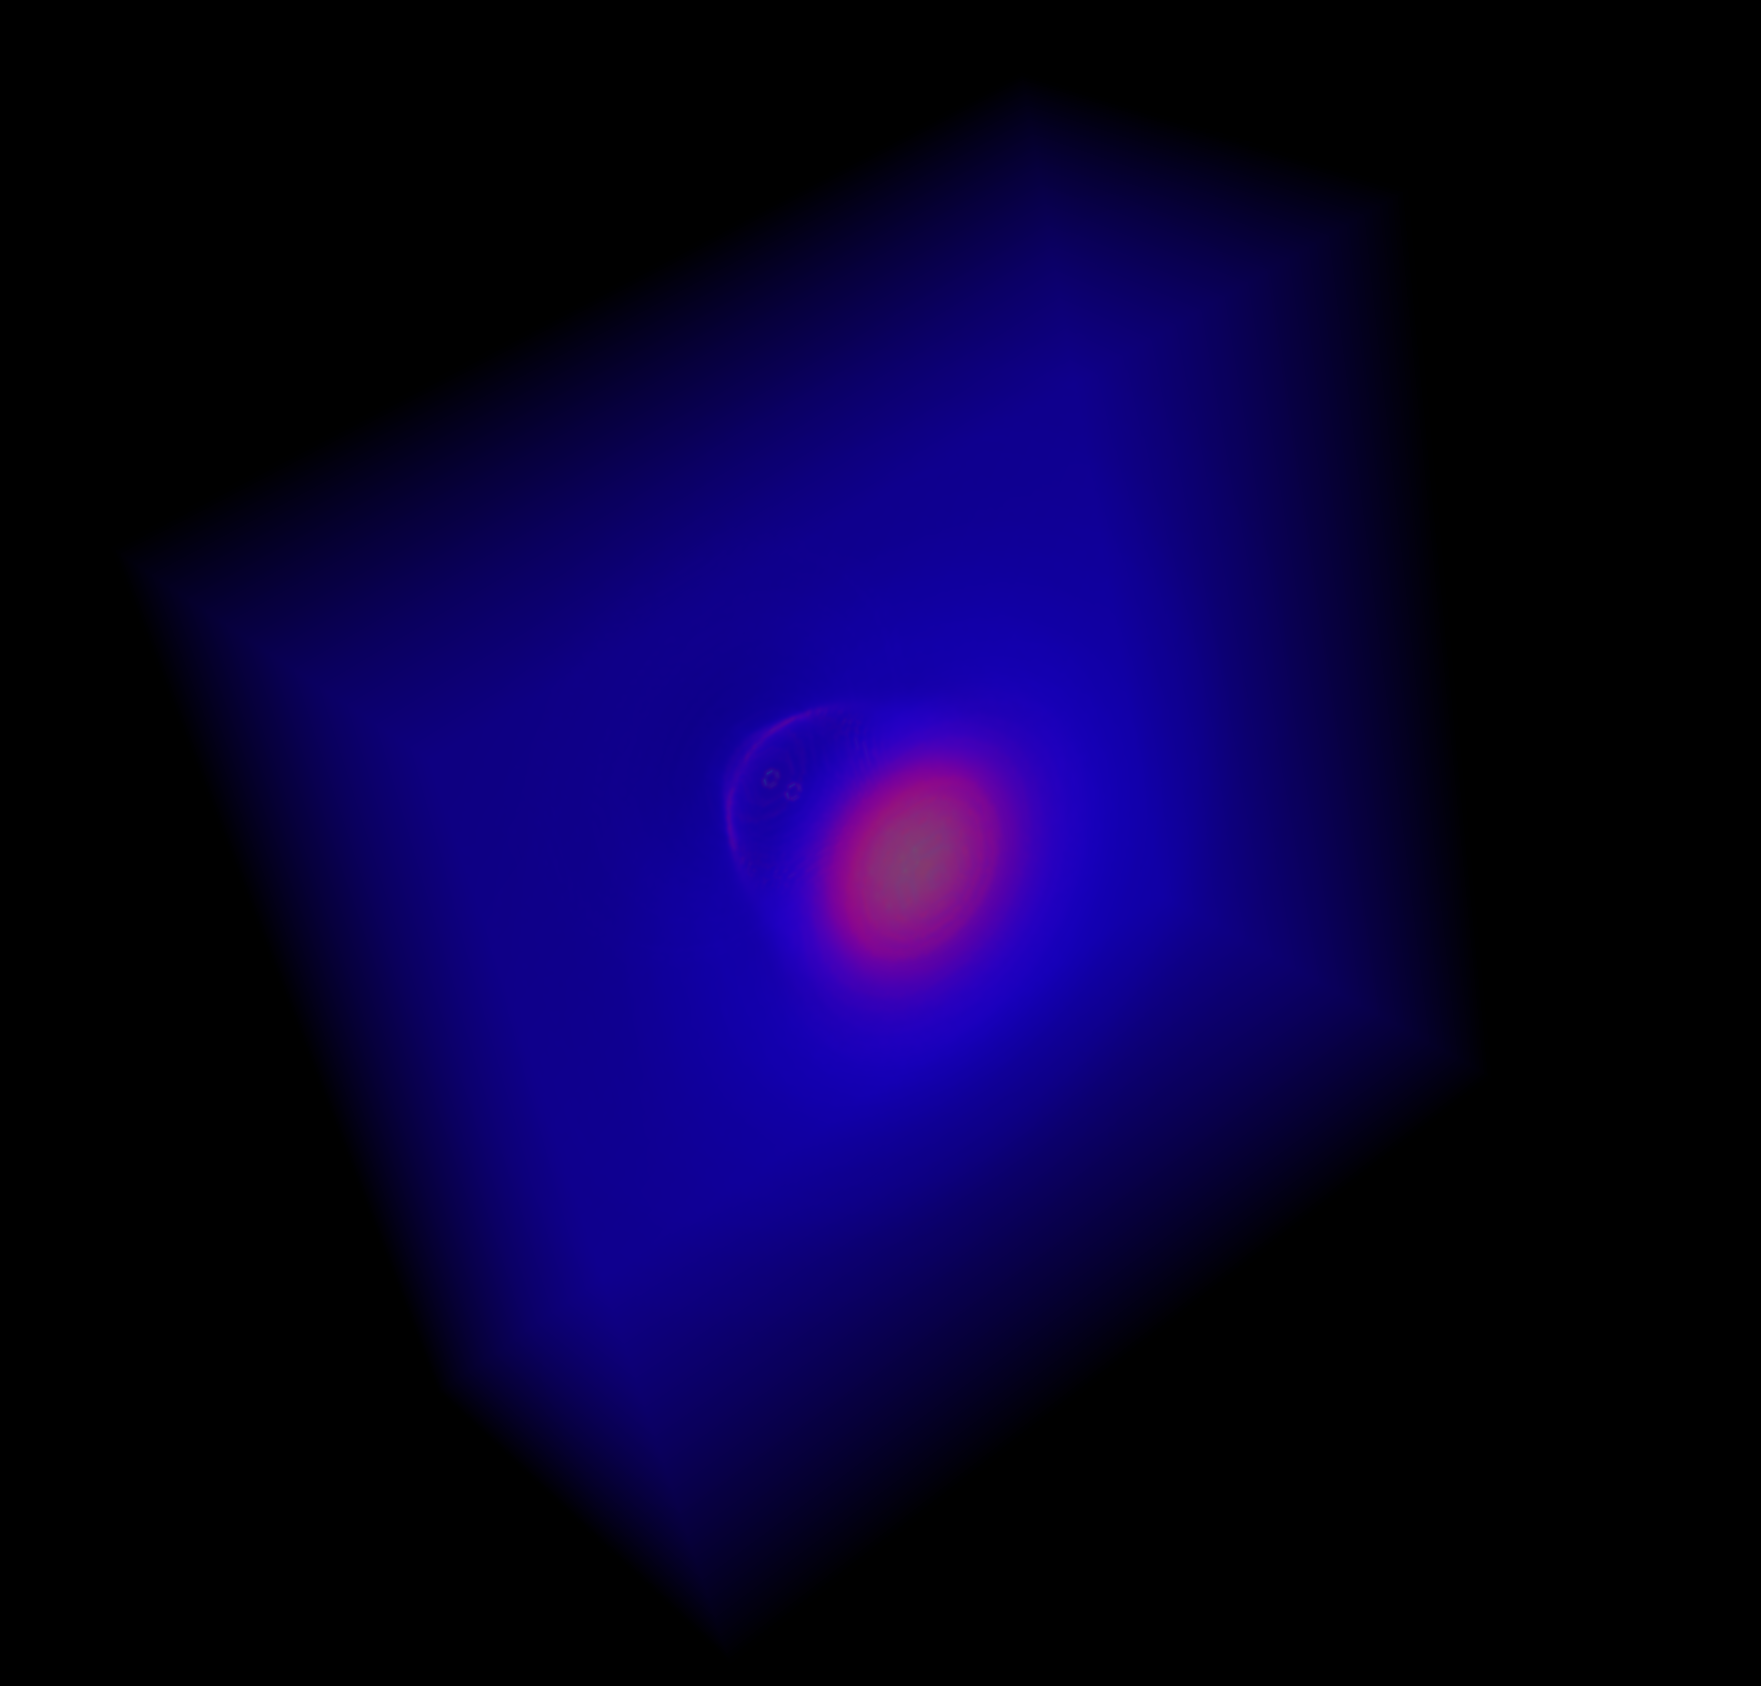
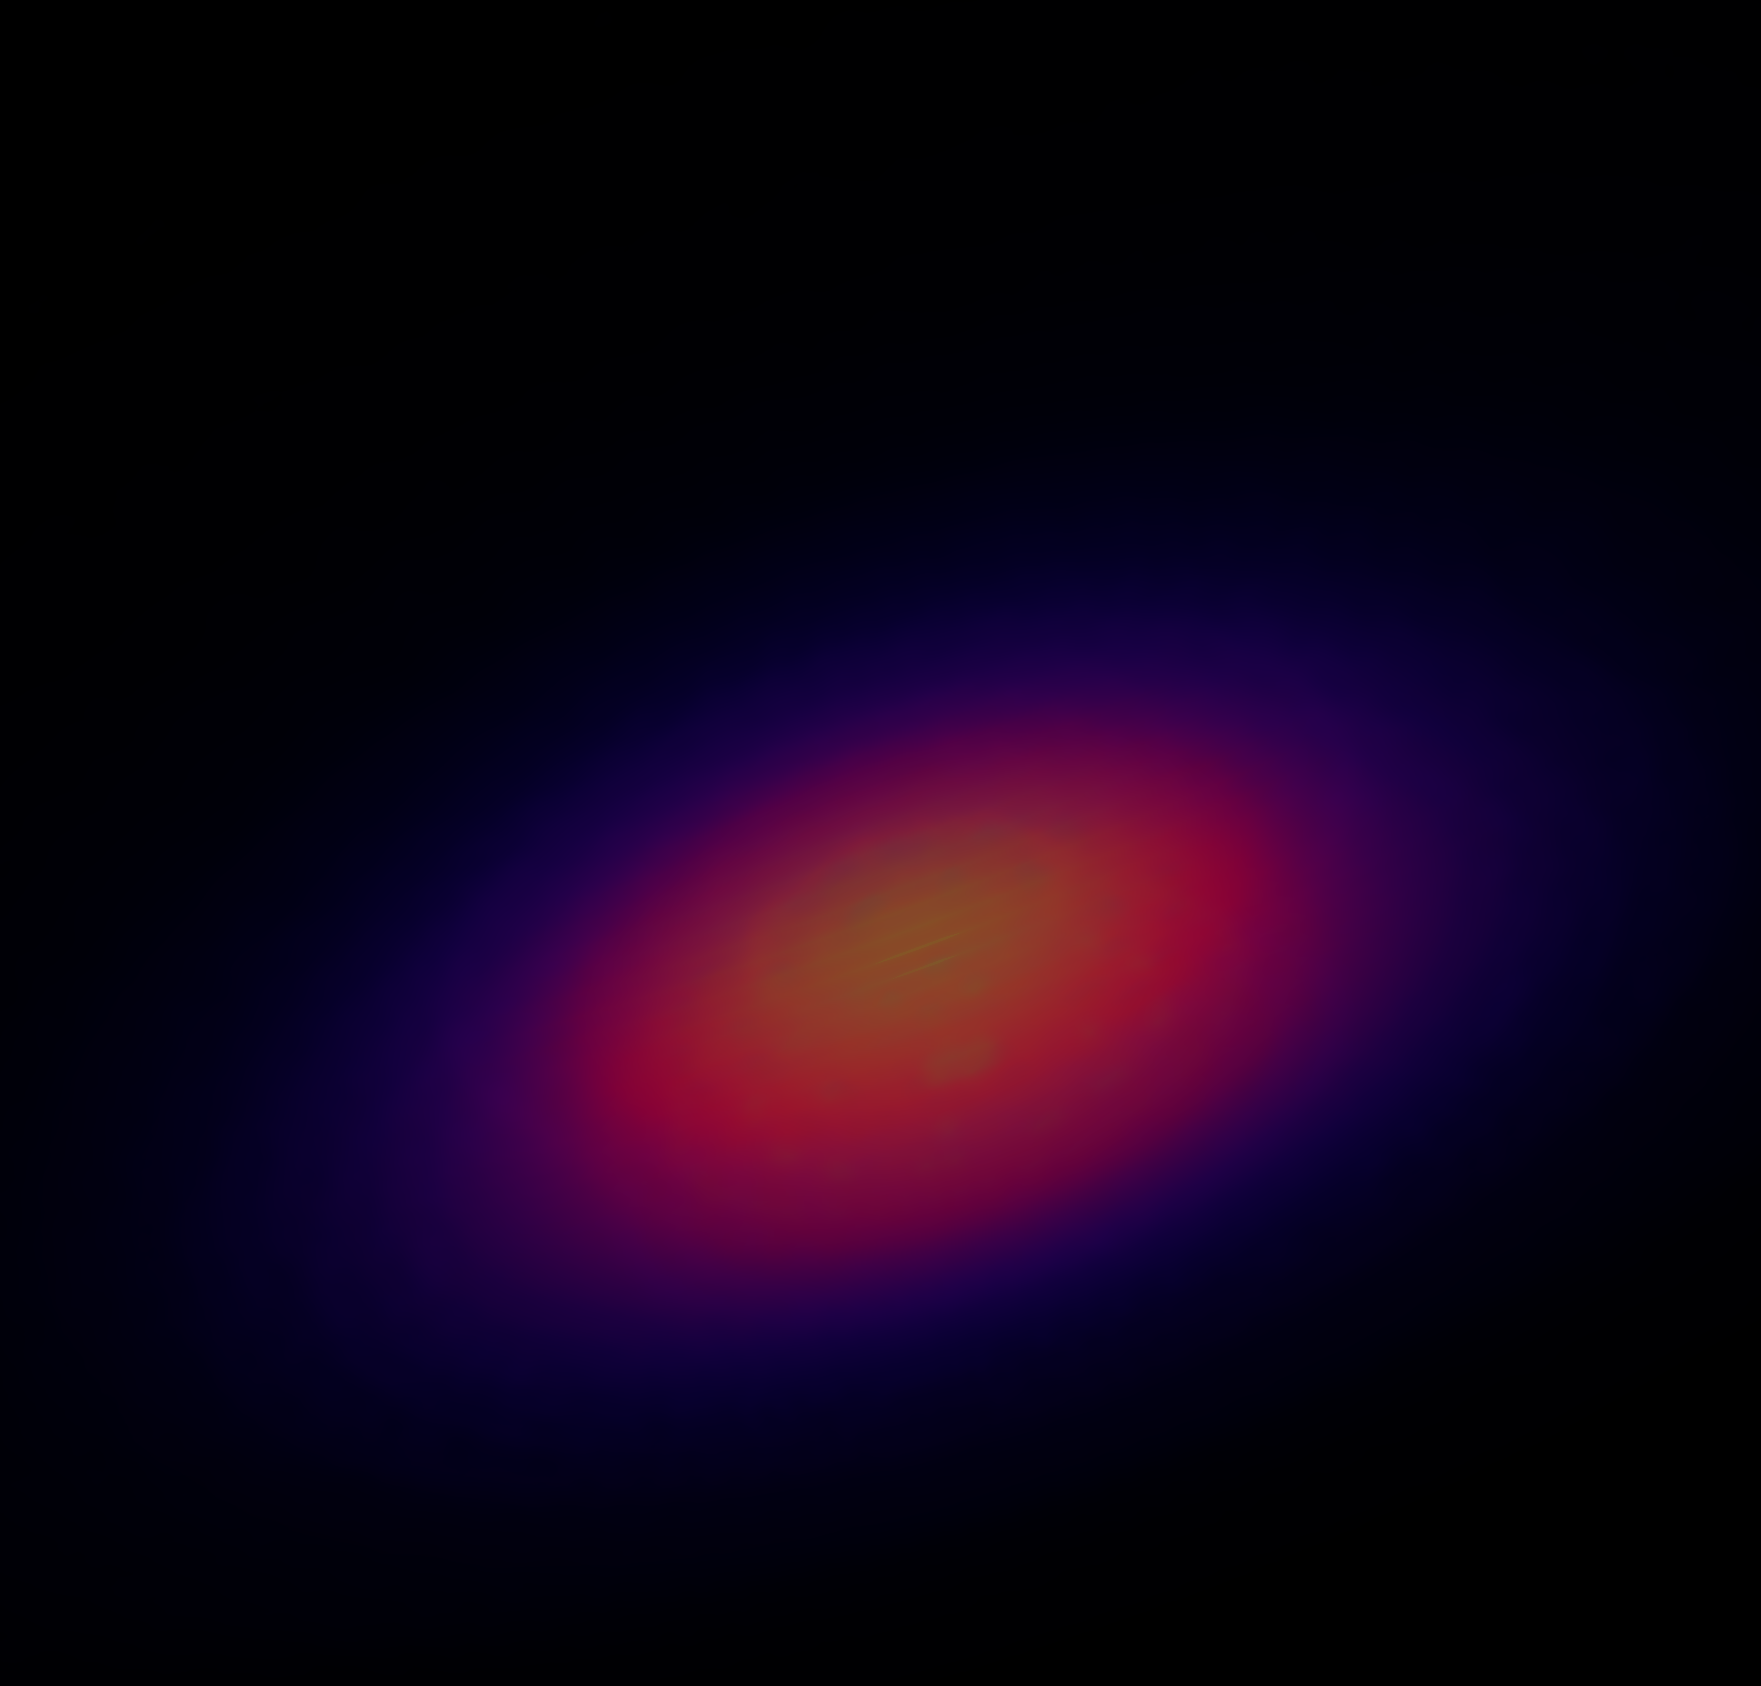
Added normalization factor to VolumeVTK. Tested change of camera position.

diff --git a/VisualPIC/Tools/visualizer3Dvtk.py b/VisualPIC/Tools/visualizer3Dvtk.py
@@ -30,6 +30,7 @@ class VolumeVTK():
         self.field = field3D
         self.opacity = vtk.vtkPiecewiseFunction()
         self.color = vtk.vtkColorTransferFunction()
+        self.normalizationFactor = None
         self._SetDefaultStyle()
 
     def _SetDefaultStyle(self):
@@ -76,6 +77,17 @@ class VolumeVTK():
             self.opacity.AddPoint(point[0], point[1])
             #self.SetOpacityValue(i, point[0], point[1])
 
+    def SetNormalizationValueFromCurrentMaximum(self, timeStep):
+        if self.field.GetFieldDimension() == "3D":
+            fieldData = np.absolute(self.field.GetAllFieldDataInOriginalUnits(timeStep))
+        if self.field.GetFieldDimension() == "2D":
+            fieldData = np.absolute(self.field.Get3DFieldFrom2DSliceInOriginalUnits(timeStep, transvEl, longEl))
+        if self.normalizationFactor == None:
+            self.normalizationFactor = np.amax(fieldData)
+
+    def SetNormalizationFactor(self, value):
+        self.normalizationFactor = value
+
     def GetOpacityValues(self):
         values = list()
         size = self.opacity.GetSize()
@@ -103,8 +115,10 @@ class VolumeVTK():
             fieldData = np.absolute(self.field.GetAllFieldDataInOriginalUnits(timeStep))
         if self.field.GetFieldDimension() == "2D":
             fieldData = np.absolute(self.field.Get3DFieldFrom2DSliceInOriginalUnits(timeStep, transvEl, longEl))
-        maxvalue = np.amax(fieldData)
-
+        if self.normalizationFactor == None:
+            maxvalue = np.amax(fieldData)
+        else:
+            maxvalue = self.normalizationFactor
         den1 = 255.0/maxvalue
         fieldData = np.round(den1 * fieldData)
         maxvalue = np.amax(fieldData)
@@ -257,15 +271,18 @@ class Visualizer3Dvtk():
             self.renderer.AddVolume(self.volume)
         else:
             self.volume.Modified()
-        #if firstTime:
-        self.renderer.ResetCamera()
-        self.initialCameraPosition = np.array(self.vtkCamera.GetPosition())
-        self.initialDataOrigin = np.array((axes["x"][0],axes["y"][0],axes["z"][0]))
+        if firstTime:
+            self.renderer.ResetCamera()
+            self.renderer.GetRenderWindow().Render()
+        else:
+            #currentCameraPosition = np.array(self.renderer.GetActiveCamera().GetPosition())
+            #newDataOrigin = np.array((axes["x"][0],axes["y"][0],axes["z"][0]))
+            #newCameraPosition = newDataOrigin - self.pastDataOrigin + currentCameraPosition
+            self.renderer.ResetCamera()
+            #self.renderer.GetActiveCamera().SetPosition(newCameraPosition[0],newCameraPosition[1],newCameraPosition[2])
+            self.vtkWidget.GetRenderWindow().Render()
+        #self.pastDataOrigin = np.array((axes["x"][0],axes["y"][0],axes["z"][0]))
         self.interactor.Initialize()
-        #else:
-        #    newDataOrigin = np.array((axes["x"][0],axes["y"][0],axes["z"][0]))
-        #    newCameraPosition = newDataOrigin - self.initialDataOrigin + self.initialCameraPosition
-        #    #self.vtkCamera.SetPosition(newCameraPosition[0],newCameraPosition[1],newCameraPosition[2])
 
     def MakeRender(self, timeStep):
         self.CreateVolume(timeStep)
